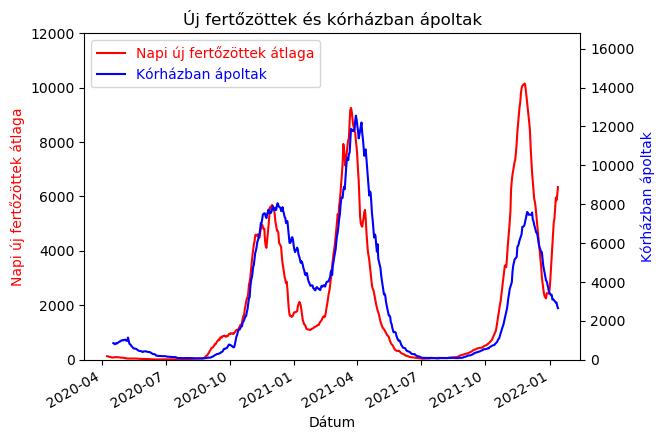
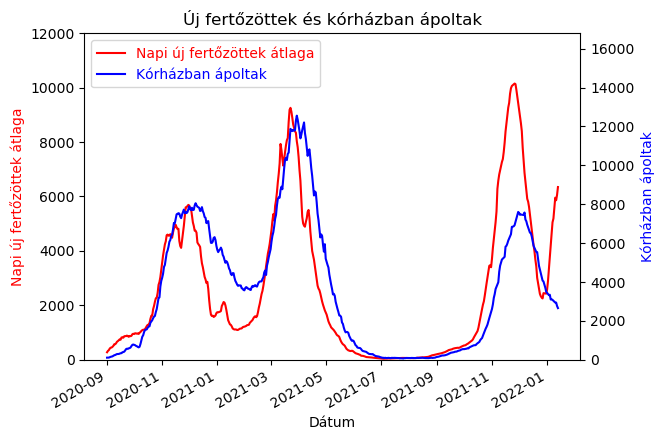
Frissítés

Changed region(s): [[0.1506, 0.1773, 0.8434, 0.9455], [0.0602, 0.8273, 0.1506, 0.9455]]

diff --git a/kép_új_fertőzöttek_vs_kórházban_ápoltak.py b/kép_új_fertőzöttek_vs_kórházban_ápoltak.py
@@ -15,6 +15,8 @@ df['Kórházban ápoltak'] = df['Kórházban ápoltak'].interpolate(method='line
 dfheti = df.rolling(7, center=True, min_periods=4).mean()
 df['Napi új fertőzöttek átlaga'] = dfheti['Napi új fertőzött']
 
+df = df[df['Dátum'] >= '2020-09-01']
+
 pd.plotting.register_matplotlib_converters()
 
 host = host_subplot(111)
